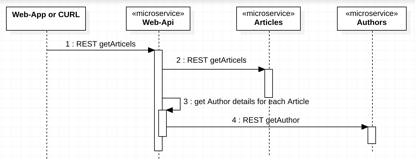
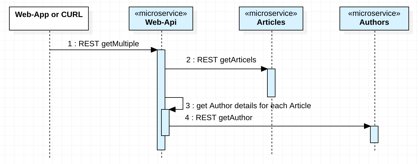
update workshop

diff --git a/workshop/03-rest-api.md b/workshop/03-rest-api.md
@@ -3,7 +3,7 @@
 
 ****** **UNDER CONSTRUCTION** ******
 
-## Making the REST API life easier for Java developers with MicroProfile
+## 1. Making the REST API life easier for Java developers with MicroProfile
 
 MicroProfile comes with a REST Client which defines a type safe client programming model. The REST Client makes it easier to convert between the JSON data and Java objects in both directions.
 
@@ -117,7 +117,7 @@ for (int index = 0; index < coreArticles.size(); index++) {
 } 
 ```
 
-## Lab
+## 2. Lab - Defining and exposing REST APIs
 
 Invoke the following commands to set up the lab. Skip the commands you've already executed.
 
@@ -140,39 +140,16 @@ curl http://159.122.172.162:31380/web-api/v1/getmultiple
 [{"id":"1557993525215","title":"Debugging Microservices running in Kubernetes","url":"http://heidloff.net/article/debugging-microservices-kubernetes","authorName":"Niklas Heidloff","authorBlog":"http://heidloff.net","authorTwitter":"@nheidloff"},{"id":"1557993525210","title":"Dockerizing Java MicroProfile Applications","url":"http://heidloff.net/article/dockerizing-container-java-microprofile","authorName":"Niklas Heidloff","authorBlog":"http://heidloff.net","authorTwitter":"@nheidloff"},{"id":"1557993525204","title":"Install Istio and Kiali on IBM Cloud or Minikube","url":"https://haralduebele.blog/2019/02/22/install-istio-and-kiali-on-ibm-cloud-or-minikube/","authorName":"Harald Uebele","authorBlog":"https://haralduebele.blog","authorTwitter":"@harald_u"},{"id":"1557993525199","title":"Three awesome TensorFlow.js Models for Visual Recognition","url":"http://heidloff.net/article/tensorflowjs-visual-recognition","authorName":"Niklas Heidloff","authorBlog":"http://heidloff.net","authorTwitter":"@nheidloff"},{"id":"1557993525194","title":"Blue Cloud Mirror Architecture Diagrams","url":"http://heidloff.net/article/blue-cloud-mirror-architecture-diagrams","authorName":"Niklas Heidloff","authorBlog":"http://heidloff.net","authorTwitter":"@nheidloff"}]
 ```
 
-## Document REST call GetArticels in OpenAPI
+When you use MircoProfile you get also the API Explorer you can use for documentation and testing of the REST API of the microservice.
 
-With the usage of the MicroProfile you can document you REST API during the development with [OpenApi](https://github.com/OpenLiberty/guide-microprofile-openapi).
+![cns-container-web-api-v1-04.png](images/cns-container-web-api-v1-04.png)
 
-Here is a sample of the usage inside the the class [GetArticles](../web-api-java-jee/src/main/java/com/ibm/webapi/apis/GetArticles.java) to implement a REST call.
-
-Here you can see the definition of the **@Path("/getmultiple")**, which we used before in our CURL command.
-
-```java
-...
-public class GetArticles {
-   .....
-   @GET
-	@Path("/getmultiple")
-	@Produces(MediaType.APPLICATION_JSON)
-	@APIResponses(value = {
-			@APIResponse(responseCode = "200", description = "Get most recently added articles", content = @Content(mediaType = "application/json", schema = @Schema(type = SchemaType.ARRAY, implementation = Article.class))),			
-			@APIResponse(responseCode = "500", description = "Internal service error") })
-	@Operation(summary = "Get most recently added articles", description = "Get most recently added articles")
-   .....
-```
-
-With that we get also the API Explorer, we can use for our documentation and testing of the REST API the microservice.
-
-![](images/rest-api-open-api.gif)
-
-Read the following resources to learn more about the MicroProfile REST Client and OpenAPI.
+Read the following resources to learn more about the MicroProfile REST Client.
 
 * [Guide: Consuming RESTful services with template interfaces](https://github.com/OpenLiberty/guide-microprofile-rest-client)
 * [Rest Client for MicroProfile](https://github.com/eclipse/microprofile-rest-client)
 * [MicroProfile Rest Client in Istio](https://www.eclipse.org/community/eclipse_newsletter/2018/september/MicroProfile_istio.php#restclient)
 * [Java Microservices with MicroProfile – Rest Client and JSON-B](https://www.ibm.com/blogs/bluemix/2018/10/migrate-java-microservices-from-spring-to-microprofile-p3/)
-* [Guide microprofile penapi](https://github.com/OpenLiberty/guide-microprofile-openapi)
 
 Now, we've finished the **Defining and exposing REST APIs**.
 Let's get started with the [Lab - Using traffic management in Kubernetes](04-traffic-management.md).
@@ -182,5 +159,6 @@ Let's get started with the [Lab - Using traffic management in Kubernetes](04-tra
 Resources:
 
 * ['Invoking REST APIs from Java Microservices'](http://heidloff.net/invoke-rest-apis-java-microprofile-microservice)
+
 
 * ['Demo: Consume REST APIs'](https://github.com/nheidloff/cloud-native-starter/blob/master/documentation/DemoConsumeRESTAPIs.md)

diff --git a/workshop/04-traffic-management.md b/workshop/04-traffic-management.md
@@ -3,11 +3,11 @@
 
 ****** **UNDER CONSTRUCTION** ******
 
-The “Cloud Native Starter” shows a sample polyglot microservices application with Java and Node.js on Kubernetes using Istio for traffic management, tracing, metrics, fault injection, fault tolerance, etc.
+The **“Cloud Native Starter”** is a sample polyglot microservices application with Java and Node.js on Kubernetes using Istio for traffic management, tracing, metrics, fault injection, fault tolerance, etc.
 
 There are currently not many Istio examples available, the one most widely used is probably [Istio’s own “Bookinfo”](https://developer.ibm.com/solutions/container-orchestration-and-deployment/?cm_mmc=Search_Google-_-Developer_IBM+Developer-_-WW_EP-_-%2Bistio_b&cm_mmca1=000019RS&cm_mmca2=10004796&cm_mmca7=9041823&cm_mmca8=aud-396679157191:kwd-448983149697&cm_mmca9=_k_EAIaIQobChMIq_ynq8yi4gIVrDLTCh1T2g9AEAAYASAAEgIVAfD_BwE_k_&cm_mmca10=322762525080&cm_mmca11=b&gclid=EAIaIQobChMIq_ynq8yi4gIVrDLTCh1T2g9AEAAYASAAEgIVAfD_BwE) sample or the [Red Hat Istio tutorial](https://github.com/redhat-developer-demos/istio-tutorial). 
 
-These other tutorials and examples do mostly the request routing not as a part for a user-facing service directly behind the Istio ingress.
+These other tutorials and examples do focus on the request routing not as a part for a user-facing service directly behind the Istio ingress.
 
 In this part we create a new instance and version of the web-api microservice.
 
@@ -17,6 +17,22 @@ New we configure the routing to split the usage between our two instances and ve
 
 ![gif](images/traffic-routing.gif)
 
+## Lab - Traffic Routing
+
+In order to demonstrate traffic routing you can run the following commands. 20 % of the web-api API request to read articles will now return 10 instead of 5 articles which is version 2. 80 % of the requests are still showing only 5 articles which is version 1. 
+
+```
+$ cd $PROJECT_HOME
+$ iks-scripts/check-prerequisites.sh
+$ iks-scripts/delete-all.sh
+$ iks-scripts/deploy-articles-java-jee.sh
+$ iks-scripts/deploy-authors-nodejs.sh
+$ iks-scripts/deploy-web-app-vuejs.sh
+$ iks-scripts/deploy-web-api-java-jee.sh
+$ iks-scripts/deploy-web-api-java-jee-v2.sh
+$ iks-scripts/deploy-istio-ingress-v1-v2.sh
+$ iks-scripts/show-urls.sh
+```
 
 Now, we've finished the **Using traffic management in Kubernetes**.
 Let's get started with the [Lab - Resiliency](05-resiliency.md).

diff --git a/workshop/02-container.md b/workshop/02-container.md
@@ -144,7 +144,7 @@ CMD ["npm", "start"]
 If last step is executed of the **Dockerfile** the container is ready to be deployed to Kubernetes.
 
 
-## 1.3 YAML Configurations for the deployment to Kubernetes
+### 1.3 YAML Configurations for the deployment to Kubernetes
 
 Now we examine the deployment yamls to deploy the container to **Pods** and creating **Services** to access them in the Kubernetes Cluster.
 
@@ -152,7 +152,7 @@ In the following image you can see the deployed **Services**:
 
 ![ibm-cloud-services](images/ibm-cloud-services.png)
 
-### 1.3.1 Web-app
+#### 1.3.1 Web-app
 
 * Service and Deployment configuration for the micro service
 
@@ -198,7 +198,7 @@ spec:
 
 ```
 
-### 1.3.2 Web-api-V1
+#### 1.3.2 Web-api-V1
 
 The deployment yaml for the Web-Api-V1. Here you can inspect the **Service** and the **Deployment** definition.
 
@@ -232,7 +232,7 @@ spec:
 ---
 ```
 
-### 1.3.3 Articles
+#### 1.3.3 Articles
 
 As defined in the Twelve-Factor-App it’s important for cloud-native applications to store configuration externally, rather than in the code since this makes it possible to deploy applications to different environments.
 
@@ -321,7 +321,7 @@ data:
 ---
 ```
 
-## 1.4 Ingress configuration
+### 1.4 Ingress configuration
 
 You can see in the diagram below, we are using a Ingress from Istio to provide access from the internet to the microservice **web-api** and the **web-app**.
 
@@ -378,7 +378,7 @@ spec:
 ---
 ```
 
-## 1.5 Deploy the containers to the Kubernetes Cluster
+### 1.5 Lab - Deploy the containers to the Kubernetes Cluster
 
 Invoke following bashscripts to deploy the microservices:
 
